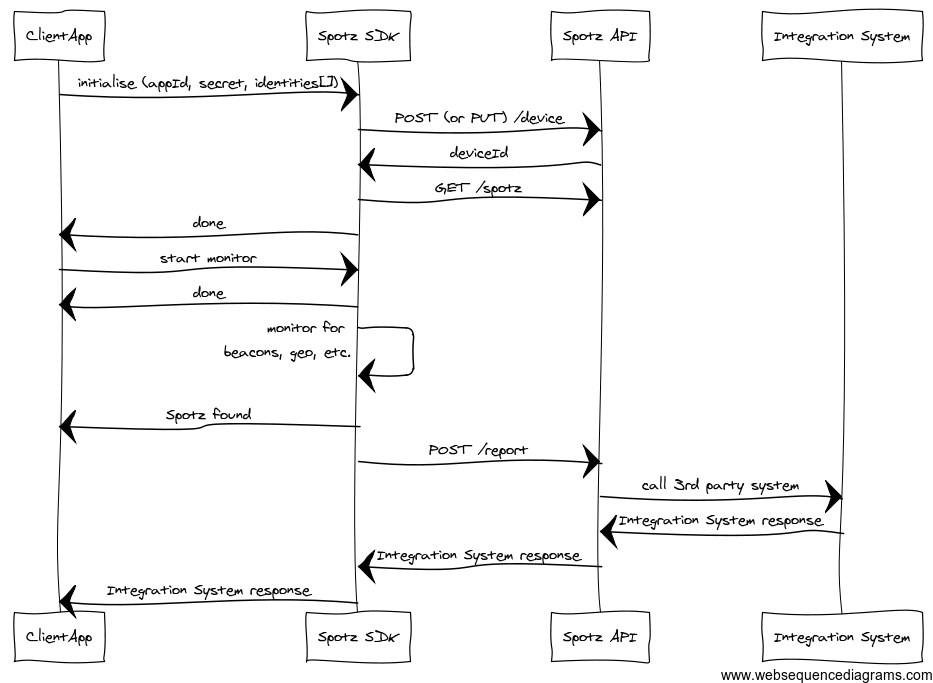
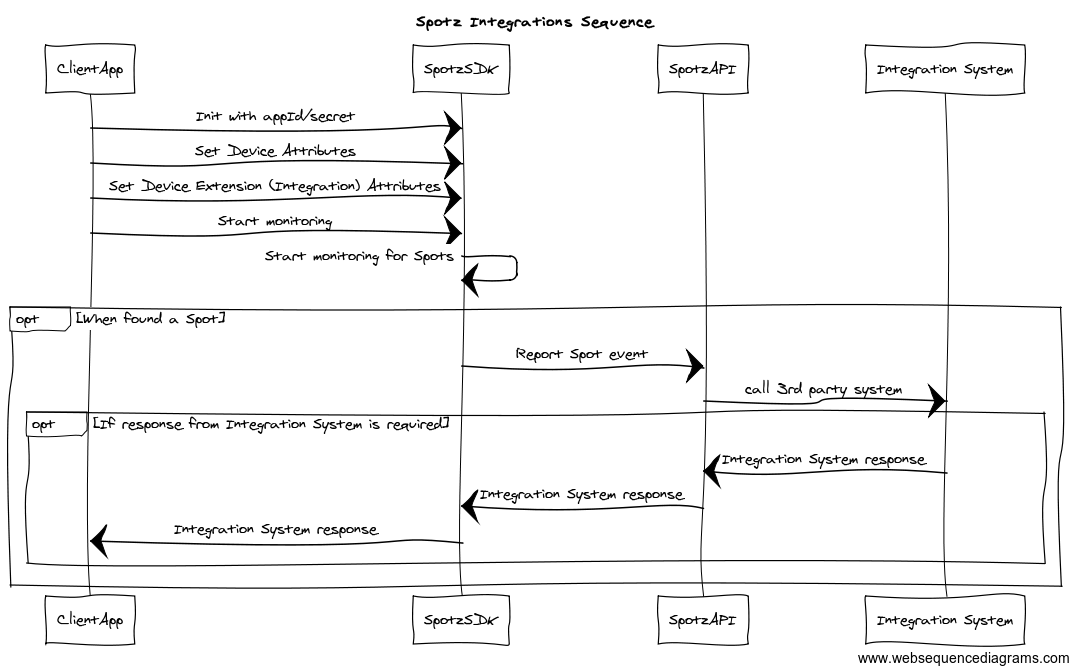
Updated documentation for Spotz v3

diff --git a/README.md b/README.md
@@ -3,14 +3,14 @@ Spotz Integration Guide
 
 ### Introduction
 
-Localz Spotz platform allows developers to effortlessly integrate microlocation services into their mobile applications. 
+Localz Spotz platform allows developers to effortlessly integrate micro-location services into their mobile applications.
 This involves 3 steps:
  
  - Setting up locations you are interested in on the Spotz console
  - Initializing Spotz in your mobile application
  - Acting on Spotz notifications when you reach one of the locations
 
-In the third step, developers often need to contact 3rd party APIs to obtain location specific information (e.g. get a promotional code relevant to the supermarket location) or to report the fact of user coming to the location for auditing purposes. Spotz platform includes its own integration framework. Using this framework, these calls can be made without writing a single line of code. In fact, any number of 3rd party APIs could be called on demand, after the application is in production. 
+In the third step, developers often need to contact 3rd party APIs to obtain location specific information (e.g. get a promotional code relevant to the supermarket location) or to report the fact of a user coming to a location for auditing purposes. Spotz platform includes its own integration framework. Using this framework, these calls can be made without writing a single line of code. In fact, any number of 3rd party APIs could be called on demand, after the application is in production.
 Interested? Keep reading.
 
 ### Spotz integration - high level view
@@ -25,58 +25,182 @@ The developer chooses the integrations on Spotz Web Console. As soon as integrat
 
 Integration with the following 3rd party systems is supported:
 
-- <b>Teradata ARTIM (Aprimo Real Time Interaction manager) </b>is part of Teradata <a href=\"http://marketing.teradata.com\"> Marketing Solution suite. </a> Using teradata ARTIM your application can receive personalised offers and promotions.
-- <b><a href=\"https://segment.com\">Segment</a></b> is a cloud platform for collecting, translating and routing customer data. Segment is integrated with a large number of systems, where this data can be analysed and visualied. 
-- <b><a href=\"http://zapier.com\">Zapier</a></b> enables you to automate tasks between other online services. There are two basic principles to Zapier: a trigger, then an action. You can use an event of entering a spot as a trigger event in Zapier (webhook).
-- <b>Screenz-API</b> is a Localz-developed extension for managing location-aware interactive screens. Intended to provide customers with a personalised experience through screens which respond to the customer’s proximity to the screen.<p>
-- <b>HTTP GET WEBHOOK</b> use this extension to retrieve (HTTP GET) json data from a URL of your choice when user enters a spot.<p>
+- <b>DMC</b> is a Teradata Digital Marketing Center API.
+- <b>Teradata RTIM (Real Time Interaction manager)</b> is a part of Teradata <a href=\"http://marketing.teradata.com\">Marketing Solution suite</a>. Using Teradata RTIM your application can receive personalised offers and promotions.
+- <b><a href=\"https://segment.com\">Segment</a></b> is a cloud platform for collecting, translating and routing customer data. Segment is integrated with a large number of systems, where this data can be analysed and visualised.
+- <b><a href=\"http://zapier.com\">Zapier</a></b> enables you to automate tasks between other online services. There are two basic principles to Zapier: first a trigger, then an action. You can use an event of entering a spot as a trigger event in Zapier (webhook).
+- <b>Screenz-API</b> is a Localz developed extension for managing location-aware interactive screens. Intended to provide customers with a personalised experience through screens which respond to the customer’s proximity to the screen.
+- <b>HTTP GET WEBHOOK</b> - use this extension to retrieve (HTTP GET) data from a URL of your choice when a user enters a spot.<p>
 
-These systems are a part of the second Spotz release, and we are activily working on adding more 3rd party integrations to Spotz platform. If you have any suggestions on what systems Spotz should integrate with, [drop 
-us a line] (mailto:spotz@localz.com).
+These systems are a part of the second Spotz release, and we are actively working on adding more 3rd party integrations to Spotz platform. If you have any suggestions on what systems Spotz should integrate with, [drop us a line] (mailto:spotz@localz.com).
  
 ### Spotz integration - Tutorial
 
-In this tutorial we will extend the Spotz demo app [(Android)](https://github.com/localz/spotz-sdk-android) and [(iOS)](https://github.com/localz/Spotz-iOS-SDK) by adding a call to a 3rd party server. 
+To start making API calls to 3rd party systems you'll need to setup an Integration for you Application and Spot (optional). You can have as many Integrations (of the same type) as you want, provided that the have unique names.
 
-#### Create Applicatiion - Setup Integration 
+For each Integration type you will have to provide Integration specific attributes, e.g. <i>host</i>, <i>port</i>, <i>authorization</i>, etc. For most use cases, setting up an Integration at the Application level should be enough (keep on reading for details). However, if an Integration has mandatory Spot-level attributes or you would like to enable/setup an Integration only for certain Spots - you will have to enable/setup this Integration for each individual Spot.
 
- - First login to [Spotz Web Console](https://spotz.localz.co/#/app/dashboard) and create an application. Record the <b>Application ID</b> and <b>Client Key</b> for the mobile platform of your choice. You will need them when writing client side code.  
+Apart from Integration specific attributes, all Integrations have the following common attributes:
  
- - Choose <b> Integration </b> Left menu item. Click <b> + Create new integration</b> and choose <b> HTTP GET WEBHOOK </b>.
+ - <b>triggerOnEvent</b> - if set to <i>enter</i> - Integration will only be executed when a user "enters" a Spot (default), if set to <i>exit</i> - Integration will only be executed when a user "exits" a Spot, if nothing is specified - Integration will be executed on both events
+
+ - <b>appliesToAllSpots</b> - if set to <i>true</i> - Integration will be executed for all Spots in a Project, otherwise - only for Spots which are setup to use this Integration (this attribute can only be set for Integrations which do not require Spot-level attributes)
+
+ - <b>dependsOn</b> - this attribute allows you to chain Integrations. Set it to a name of another Integration this Integration will be executed only after the dependent Integration is completed
+
+ - <b>responseRequired</b> - set this to <i>true</i> only if you need to get the response from an Integration back to your client app (this may significantly slow down the response from the Spotz API server)
+
+ - <b>stopOnError</b> - if you have multiple Integrations - set this attribute to <i>true</i> if you would like to abort executing Integrations after any of them fails
+
+ - <b>timeout</b> - Integration request timeout in milliseconds (defaults to 10 seconds)
+
+In this tutorial we will extend the Spotz demo app [(Android)](https://github.com/localz/Spotz3-Android-SDK) and [(iOS)](https://github.com/localz/Spotz3-iOS-SDK) by adding a call to a 3rd party system - 'They Said So' quotes API. 
+
+#### Create Application - Setup Integration
+
+ - First login to [Spotz Web Console](https://spotz.localz.io) and create an Application. Record the <b>Application ID</b> and <b>Application Key</b> for the mobile platform of your choice. You will need them when writing client side code.
+ 
+ - Choose <b> Integrations </b> left menu item. Click <b> New Integration</b> and choose <b> HTTP GET WEBHOOK </b>.
 
  <img alt="Select Integration" src="select_integration.png"> 
  <img alt="Create HTTP GET WEBHOOK" align="right" src="create_integration.png">
- - Populate <b>http://api.fixer.io</b> into both <b>Host Dev</b> and <b>Host Production</b> text fields and type <b>80</b> into <b>Port</b>.
+
+ - Set 'Quote' as a name fot this Integration.
+
+ - Set <i>api.theysaidso.com</i> as a value for a <b>host</b> attribute.
+
+ - Set <i>/qod.json</i> as a value for a <b>path</b> attribute (this will be the default <b>path</b> for all Spots, but we can override it in each Spot).
+
+ - Set <i>true</i> as a value for a <b>responseRequired</b> attribute (this way Spotz SDK will return the Integration response to your Client App).
+ 
+ - Leave other attributes to their defaults (<i>port</i> will default to 80, <i>secure</i> will default to 'false' (will use HTTP rather than HTTPS)).
 
  <img alt="Select Integration" src="populate_integration_details_app.png"> 
  
- - Click Update.
+ - Save your changes.
   
- You have just added an integration to your application. You have only provided the URL and port of the integration however. At this stage nothing will be called, as you need to add this integration to one or many spots. 
+You have just added an Integration to your Application. At this stage nothing will be called, as you need to add this Integration to one or more Spots. 
  
-#### Create Spotz - Setup Integration
+#### Create Spot - Setup Integration
 
-- Choose <b> Spotz </b> from the left menu.
-- Create a Spot if required
-- Click <b> Edit </b> spot and then select <b> Integrations </b> tab
-- Select <b>httpGetWebhook<b> as the integration type
-- Populate <b>/latest?base=USD</b> into both <b> Path Dev</b> and <b> Path Production </b> text fields. Press <b> + Add Integration </b> button. And then <b> Update </b> button to save the spot.
+You can enable your Integration for all Application Spots by setting Application level <i>appliesToAllSpots</i> attribute to 'true'. For this exercise we will manually add this Integration to a Spot.
 
-<img alt="Select Integration" src="populate_integration_details_spot.png"> 
+ - Choose <b> Spots </b> from the left menu.
 
-You have just configured the Spotz platform to call the Webhook to get exchange rates for USD when device detects the spot. Easy? About the same amount effort required to configure any other extension. The only thing left is to handle the response in the mobile app. 
+ - Create a Spot if not already created.
 
-#### Write client code - pass identities, receive integration response
+ - Click <b> Edit </b> Spot and then select <b> Integrations </b> from the left menu.
 
-- Follow the instructions for [Android](https://github.com/localz/spotz-sdk-android) or [iOS](https://github.com/localz/Spotz-iOS-SDK) to create a test Spotz application. 
-- When you run the app and discover the spot, the web server http://api.fixer.io/latest?base=USD. Now you only need to handle the response from the webserver. The instructions are platform specific and corresponding Readme files have the details. 
+ - Select the 'Quote' Integration we've created for the Application
 
-As an exercise, try to register two spots and get AUD exchange rates for the second spot. 
+ - Set <i>/qod.json?category={{spot.attributes.qod_category}}</i> as a value for a <b>path</b> attribute (this will be the <b>path</b> for this particular Spot). Save your changes.
 
-As another exercise, add [Zapier Webhook](https://zapier.com/zapbook/webhook/) to your application and spot. 
+<img alt="Select Integration" src="populate_integration_details_spot.png">
 
- - Try to send an email to yourself whenever you detect the spot. Include some Spotz information, e.g. Spotz metadata
- - Try also to include the name of the person using the app - you will need to pass their identity when initialising Spotz. 
+Did you notice that <i>{{spot.attributes.qod_category}}</i> part in the <b>path</b> attribute? It tells the Spotz API to use a Spot attribute called 'qod_category' when making a request to a 3rd party system. So now you just need to update your Spot and add this attribute.
 
+<img alt="Add Spot Attribute" src="add_spot_attribute.png">
 
-     
+When a User hits this Spot - Spotz API will call your 'Quote' Integration using URL <i>http://api.theysaidso.com/qod.json?category=funny</i>
+
+You have just configured the Spotz platform to call a web hook to get a 'quote of the day' from a 3rd party API. Easy? About the same amount effort is required to configure any other extension. The only thing left is to handle the response in the mobile app.
+
+#### Using Spot data in Integrations
+
+In the example above we used a Spot attribute to provide a value for a 'category'. In fact, any Integration attribute can be represented as a dynamic template using <i>{{value}}</i> Mocha-like syntax.
+
+Spotz API makes Application, Site, Spot and Device data available to your Integration via a Context object which looks like this:
+ 
+    var context = {
+        extension: {
+            name: 'Quote',            // Integration Name
+            type: 'HTTP GET WEBHOOK', // Integration Type
+            // Merged Application, Spot and Device Integration attributes
+            attr1: '',
+            attr2: ''
+        },
+        project: {        
+            projectId: 'qwe123qwe',   // Application ID
+            name: 'Name',             // Application Name
+            env: 'Development',       // Application Environment
+            extension: {              // Application level Integration attributes
+                attr1: '',
+                attr2: ''
+            }
+        },
+        spot: {
+            name: 'The Spot',         // Spot Name
+            spotId: 'qwe123qwe',      // Spot Id
+            tags: ['tag1', 'tag2'],   // Spot Tags
+            attributes: {             // Spot Attributes
+                attr1: '',
+                attr2: ''
+            },
+            extension: {              // Spot level Integration attributes
+                attr1: '',
+                attr2: ''
+            }
+        },
+        device: {
+            deviceId: 'qwe123qwe',    // Device Id
+            identity: 'qwe123qwe',    // Identity associated with a Device
+            deviceType: 'Android',
+            os: {
+                type: 'android',
+                ver: '5.0.0'
+            },
+            app: {
+                appId: 'com.android.app',
+                ver: 1,
+                build: '1.0.0',
+                sdk: '3.0.0'
+            },
+            locale: 'en_AU',
+            lang: 'en',
+            tz: 'Australia/Hobart',
+            attributes: {             // Device Attributes
+                attr1: '',
+                attr2: ''
+            },
+            extension: {              // Device level Integration attributes
+                attr1: '',
+                attr2: ''
+            }
+        },
+        event: {
+            id: 'qwe123qwe',          // Unique Event Id
+            type: 'enter',            // Event Type ('enter' or 'exit')
+            dateTime: '2014-08-28T06:57:48Z',
+            enter: true               // true - if Event Type is 'enter', otherwise - false
+        },
+        trigger: {
+            id: 'qwe123qwe',          // Trigger Id
+            type: 'beacon'            // Trigger Type ('beacon', 'geofence', 'nfc', 'qr')
+        },
+        extensions: {                 // Response from all executed Integrations
+            integrationName: {        // Integration name
+                type: 'teradataRTIM', // Integration type
+                response: {           // Integration response (whatever is received from a 3rd party system)
+                    statusCode: 200,  // Response status code
+                    headers: {        // Response headers
+                        ...
+                    },
+                    body: {           // Response body
+                        ...
+                    }
+                }
+            }
+        }
+    };
+
+#### Write client code - set device identity and attributes, receive integration response
+
+ - Follow the instructions for [(Android)](https://github.com/localz/Spotz3-Android-SDK) and [(iOS)](https://github.com/localz/Spotz3-iOS-SDK) to create a test Spotz application.
+
+ - When you run the app and discover a Spot, Spotz API will 3rd party systems defined in your Integrations. Now you only need to handle the response. The instructions are platform specific and corresponding Readme files have the details.
+
+As an exercise, add [Zapier Webhook](https://zapier.com/zapbook/webhook/) to your Application and Spot.
+
+ - Try to send an email to yourself whenever you detect the Spot. Include some Spot information, e.g. Spot metadata
+
+ - Try also to include the name of the person using the app - you will need to pass their identity when initialising Spotz (see platform specific guides).
